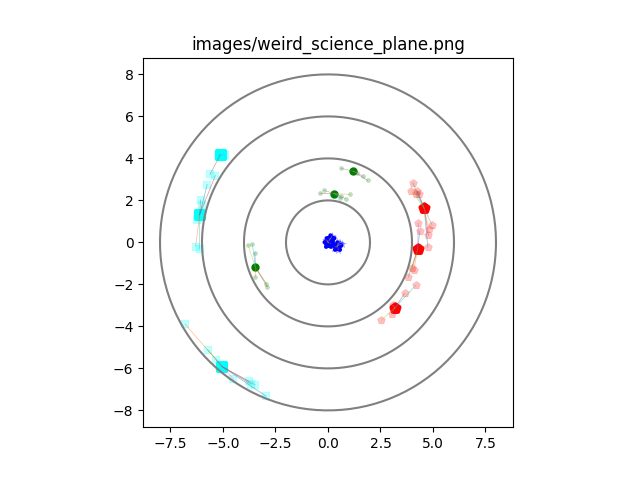
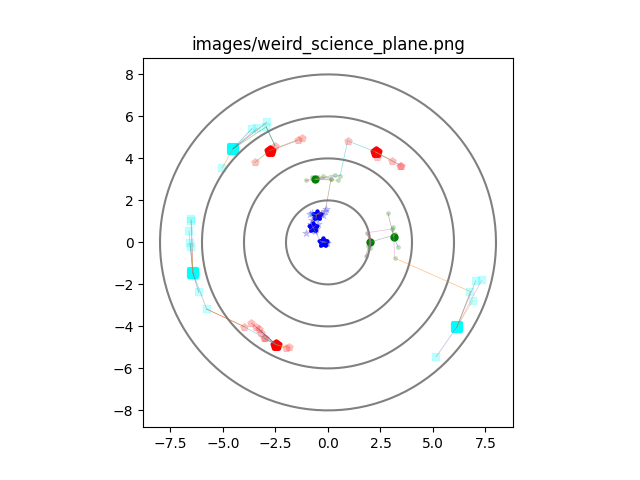
draw nodes between clusters

diff --git a/rattle_snake/plane_map.py b/rattle_snake/plane_map.py
@@ -7,6 +7,8 @@ import numpy as np
 
 from rattle_snake.constants import BeingCulture
 from rattle_snake.draw import draw_pop_center, draw_support_node, draw_edge
+from rattle_snake.node import Node, node_dist
+from rattle_snake.cluster import Cluster, find_closest_nodes
 from rattle_snake.db_helpers import (
     db_setup,
     create_node,
@@ -134,7 +136,12 @@ class PlaneMap:
         There are k population centers in each stratum.
         For each population center we generate a random nubmer of
         supporting/surround nodes.
+
+        Each population center along with its supporting nodes
+        forms a cluster which is enumerated by the node id
+        of the population center. We random connect near by clusters
         """
+        self.clusters = []
         self.nodes = []
         self.edges = []
         # nodes setup
@@ -187,6 +194,15 @@ class PlaneMap:
                     1,
                     population_center_resource_yeild,
                 )
+                pop_node = Node(
+                    node_id=node_id,
+                    x=x,
+                    y=y,
+                    plane=self.being_culture.value,
+                    stratum_id=stratum_num,
+                    is_population_center=True,
+                    resource_yeild=population_center_resource_yeild,
+                )
 
                 conn = create_connection(self.db_file)
                 create_node(conn, node)
@@ -197,6 +213,7 @@ class PlaneMap:
                 self.nodes.append(node)
 
                 # generate supporting nodes
+                cluster_supporting_nodes = []
                 num_support = np.random.randint(min_support, max_support + 1)
                 for _ in range(num_support):
                     # controls how close the points are
@@ -226,6 +243,16 @@ class PlaneMap:
                         0,
                         supporting_node_resource_yeild,
                     )
+                    supp_node = Node(
+                        node_id=node_id,
+                        x=x,
+                        y=y,
+                        plane=self.being_culture.value,
+                        stratum_id=stratum_num,
+                        is_population_center=False,
+                        resource_yeild=supporting_node_resource_yeild,
+                    )
+                    cluster_supporting_nodes.append(supp_node)
                     create_node(conn, node)
 
                     # all supporting nodes are connected to their
@@ -247,6 +274,34 @@ class PlaneMap:
                     node_id += 1
                     self.nodes.append(node)
                     self.edges.append(edge)
+
+                self.clusters.append(
+                    Cluster(
+                        population_center=pop_node,
+                        supporting_nodes=cluster_supporting_nodes,
+                    )
+                )
+
+        # connect supporting nodes between clusters
+        # cluster = self.clusters[0]
+        for cluster in self.clusters:
+            node1, node2 = find_closest_nodes(self.clusters, cluster)
+            edge = (
+                edge_id,
+                node1.node_id,
+                node2.node_id,
+                self.being_culture.value,
+                node_dist(node1, node2),
+            )
+            conn = create_connection(self.db_file)
+            create_edge(conn, edge)
+
+            edge_id += 1
+
+            x_values = [node1.x, node2.x]
+            y_values = [node2.y, node2.y]
+            draw_edge(self.ax, x_values, y_values)
+            self.edges.append(edge)
 
     def draw_circles(self):
         """Draw the domain of the weird science beings"""

diff --git a/rattle_snake/cluster.py b/rattle_snake/cluster.py
@@ -1,0 +1,48 @@
+from dataclasses import dataclass
+from typing import List, Tuple
+
+import numpy as np
+from sklearn.neighbors import NearestNeighbors
+
+
+from rattle_snake.node import Node
+
+
+@dataclass
+class Cluster:
+    population_center: Node
+    supporting_nodes: List[Node]
+
+    def cluster_id(self) -> int:
+        return self.population_center.node_id
+
+
+def find_closest_nodes(clusters: List[Cluster], cluster: Cluster) -> Tuple[Node, Node]:
+    """Find the nearest node among all other cluster's nodes to one of the cluter nodes"""
+
+    cluster_nodes = [node for node in cluster.supporting_nodes]
+    cluster_nodes.append(cluster.population_center)
+    number_of_nodes_in_cluster = len(cluster_nodes)
+    neigh = NearestNeighbors(n_neighbors=number_of_nodes_in_cluster)
+    # the population center also needs to be included
+    points = [(node.x, node.y) for node in cluster_nodes]
+    neigh.fit(points)
+
+    other_cluster_supporting_nodes = []
+    for other_cluster in [c for c in clusters if c.cluster_id != cluster.cluster_id]:
+        for node in other_cluster.supporting_nodes:
+            other_cluster_supporting_nodes.append(node)
+
+    node2 = other_cluster_supporting_nodes[0]
+    distances, indexes = neigh.kneighbors([(node2.x, node2.y)])
+    node1 = cluster_nodes[indexes[0][0]]
+    min_distance = distances[0][0]
+    for n2 in other_cluster_supporting_nodes[1:]:
+        distances, indexes = neigh.kneighbors([(n2.x, n2.y)])
+        distance = distances[0][0]
+        if distance < min_distance:
+            node1 = cluster_nodes[indexes[0][0]]
+            node2 = n2
+            min_distance = distance
+
+    return node1, node2

diff --git a/rattle_snake/node.py b/rattle_snake/node.py
@@ -1,0 +1,23 @@
+from dataclasses import dataclass
+import numpy as np
+
+
+@dataclass
+class Node:
+    node_id: int
+    x: float
+    y: float
+    plane: str
+    stratum_id: int
+    is_population_center: bool
+    resource_yeild: int
+
+
+def node_dist(n1: Node, n2: Node) -> float:
+    """Find the distance between nodes."""
+    x1 = n1.x
+    y1 = n1.y
+    x2 = n2.x
+    y2 = n2.y
+
+    return np.sqrt((y2 - y1) ** 2 + (x2 - x1) ** 2)

diff --git a/README.md b/README.md
@@ -87,13 +87,17 @@ Third option, translate this project to Elixir
 ## November 2, 2022
 
 - Build edges between population centers and supporting nodes
-  from different clusters
 - Store edges in the edges table of the database
 - Load edges from database when starting up from database
 
 ## November 9, 2022
 
-- Build edges between randomly chosen supporting nodes 
-- Werid science plane has concentric circles map
+- Draw an edge between clusters by drawing an edge between the 
+  closest supporting nodes of each cluster
+  
+## November 15, 2022
+- Weird science plane has concentric circles map
 - Deep Denizens plane has concentric triangles map
 - Dream Realm plane has concentric pentagrams map
+- ? In each stratum the nodes become connected to one another
+  when within a certain threshold
